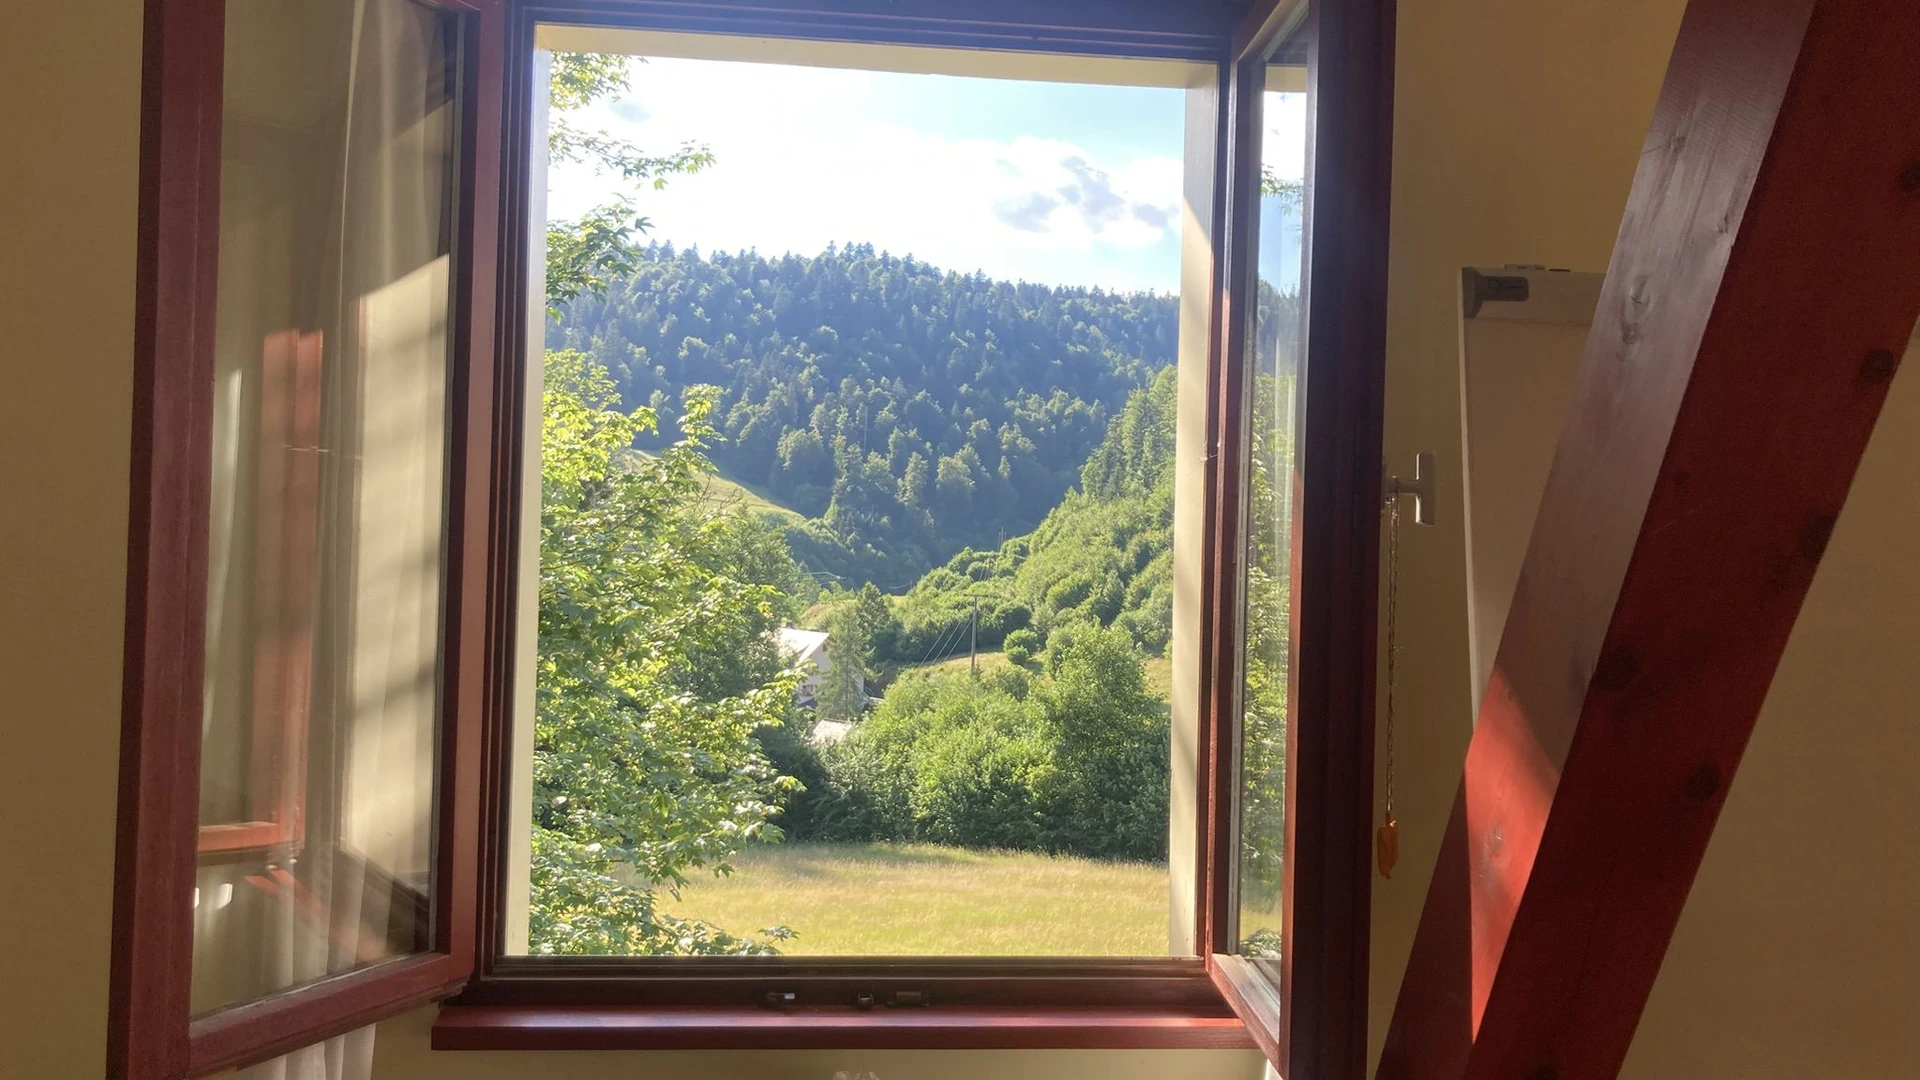
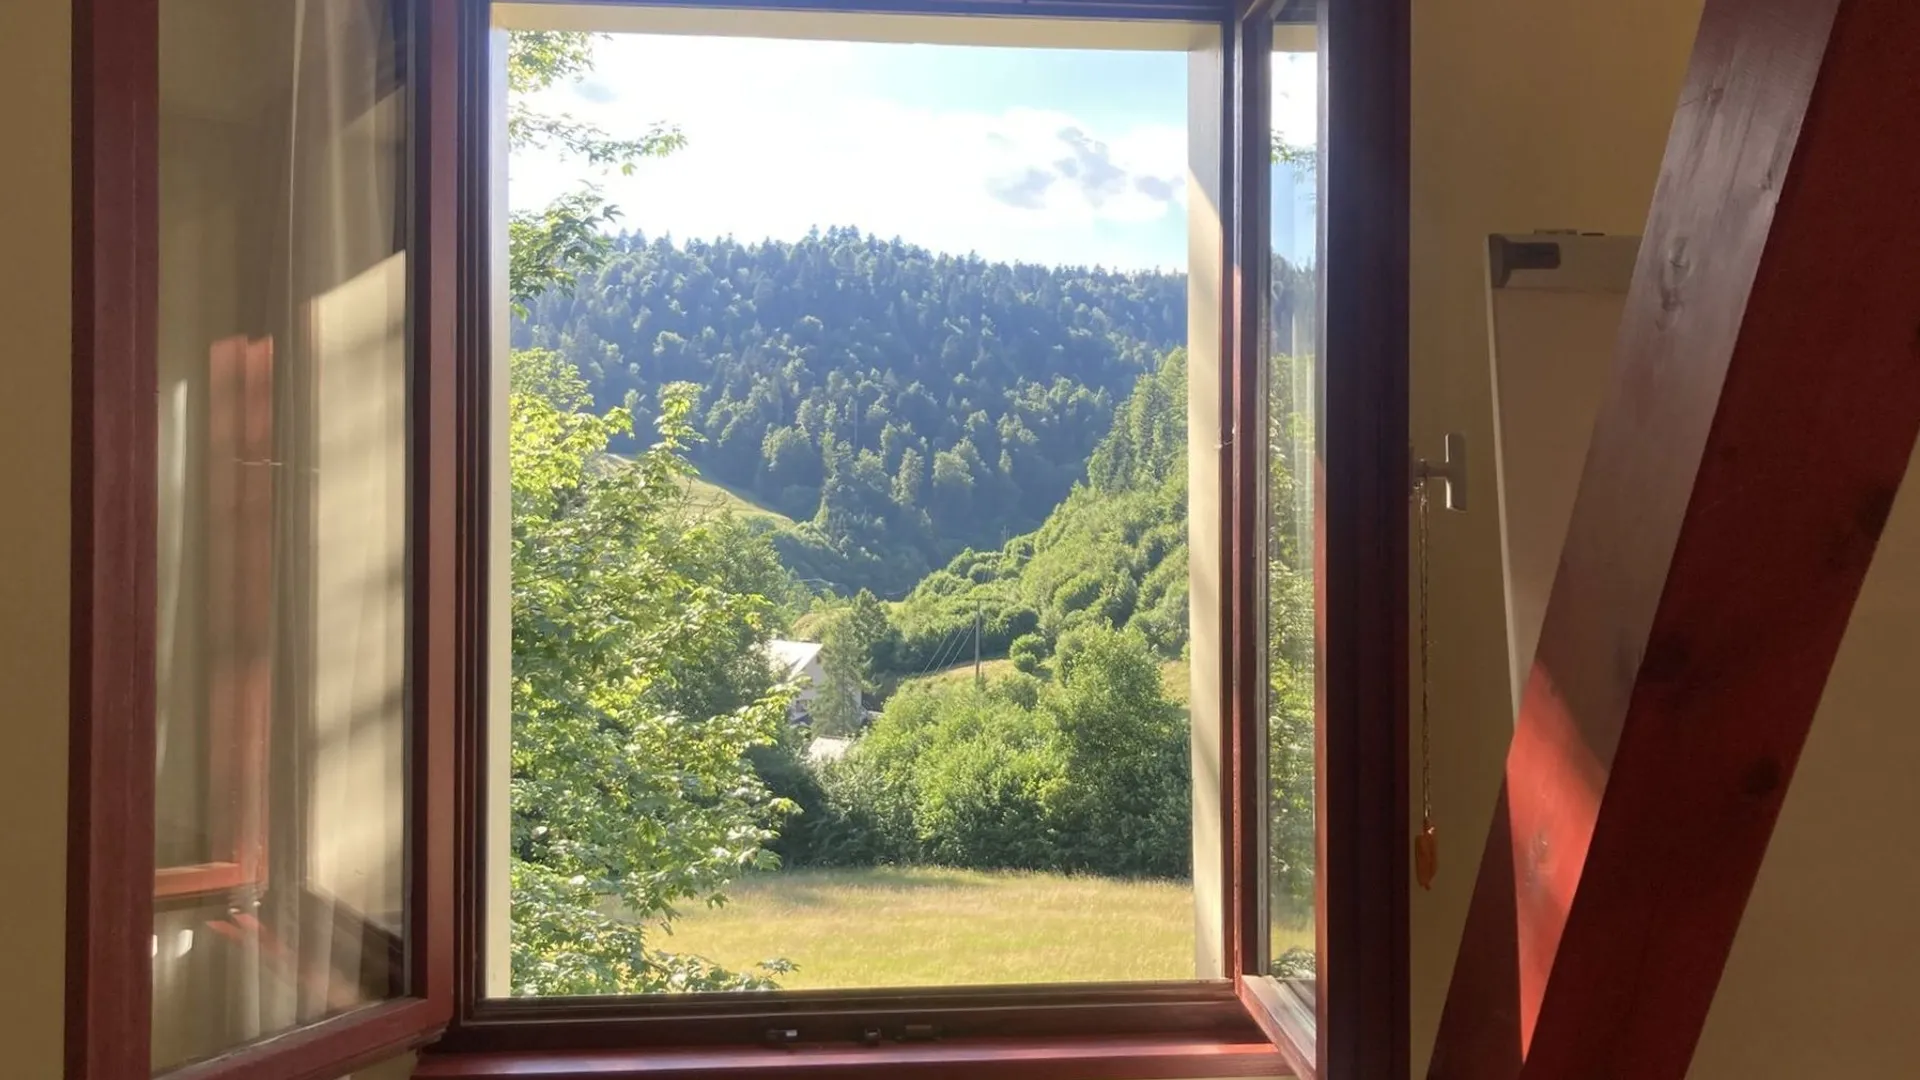
Mobile kicker centering, straightened window hero, Three-roots & techniques image framing
- Mobile: gold section kickers with a single left hairline now center on mobile
  (justify-center) with a shortened 1.5rem bar, restoring left alignment at md+;
  applied site-wide (home, training overview, venues, schedule, curriculum)
- Training overview: reworded overlapping admission requirements (L1/L2/L3) so they
  no longer echo the general eligibility list's therapy/supervision line
- What is Transpersonal Psychology: straightened the tilted window hero (~1.6deg CCW)
  and recropped to remove the resulting empty corners
- Home: all three "Three roots" cards now fill the full card width (images I & II were
  shrinking under items-center); numerals stay centered above
- Techniques: hero shifted to object-bottom so the reclining figure's full face shows;
  breathwork mandala framed lower to feature the colourful drawing; Gestalt framed
  lower to show bodies (crops the raised roll, keeps heads); Central Drama & Shadow
  Work now uses psychodrama-stage-a

diff --git a/src/index.html b/src/index.html
@@ -36,7 +36,7 @@ ogType: website
 
     <div class="relative z-10 container mx-auto px-6 pb-16 pt-40">
         <div class="max-w-3xl animate-fade-in-up">
-            <p class="p4-kicker text-[#C9A45C] mb-7 flex items-center gap-4">
+            <p class="p4-kicker text-[#C9A45C] mb-7 flex items-center justify-center md:justify-start gap-4">
                 <span class="p4-hairline"></span>
                 A four-year path &middot; 2027&ndash;2030
             </p>
@@ -88,7 +88,7 @@ ogType: website
     <div class="container mx-auto px-6">
         <div class="grid lg:grid-cols-12 gap-12 lg:gap-16 items-center max-w-6xl mx-auto">
             <div class="lg:col-span-6">
-                <p class="p4-kicker text-[#9A7734] mb-6 flex items-center gap-4">
+                <p class="p4-kicker text-[#9A7734] mb-6 flex items-center justify-center md:justify-start gap-4">
                     <span class="p4-hairline"></span> Welcome to our school
                 </p>
                 <h2 class="p4-display text-4xl md:text-6xl font-medium text-indigo-deep-900 leading-[1.08] mb-8">
@@ -159,18 +159,18 @@ ogType: website
             <div class="bg-[#FFFEF9] flex flex-col items-center text-center hover:bg-white transition-colors duration-300">
                 <p class="p4-display text-5xl text-[#C9A45C] pt-8">{{ romans[loop.index0] }}</p>
                 {% if loop.index0 == 0 %}
-                <picture>
+                <picture class="w-full block mt-6">
                     <source srcset="{{ '/assets/images/Community/community-embrace-support.webp' | url }}" type="image/webp">
                     <img src="{{ '/assets/images/Community/community-embrace-support.jpg' | url }}"
                          alt="A group embrace during a seminar"
-                         class="w-full h-52 object-cover object-[50%_25%] mt-6" loading="lazy">
+                         class="w-full h-52 object-cover object-[50%_25%]" loading="lazy">
                 </picture>
                 {% elif loop.index0 == 1 %}
-                <picture>
+                <picture class="w-full block mt-6">
                     <source srcset="{{ '/assets/images/Techniques/technique-mandala-drawing.webp' | url }}" type="image/webp">
                     <img src="{{ '/assets/images/Techniques/technique-mandala-drawing.jpg' | url }}"
                          alt="Hands gathered around a mandala during integration work"
-                         class="w-full h-52 object-cover mt-6" loading="lazy">
+                         class="w-full h-52 object-cover" loading="lazy">
                 </picture>
                 {% else %}
                 <div class="w-full h-52 bg-[#0F2540] flex items-center justify-center p-8 mt-6">
@@ -207,7 +207,7 @@ ogType: website
                 <div class="absolute -inset-4 border border-[#C9A45C]/60 pointer-events-none" aria-hidden="true"></div>
             </div>
             <div class="order-1 lg:order-2">
-                <p class="p4-kicker text-[#9A7734] mb-6 flex items-center gap-4">
+                <p class="p4-kicker text-[#9A7734] mb-6 flex items-center justify-center md:justify-start gap-4">
                     <span class="p4-hairline"></span> An honest question
                 </p>
                 <h2 class="p4-display text-4xl md:text-5xl font-medium text-indigo-deep-900 leading-tight mb-6">

diff --git a/src/training-overview.html b/src/training-overview.html
@@ -68,7 +68,7 @@ description: "Explore our transpersonal psychotherapy training programme philoso
     <div class="container mx-auto px-6 relative z-10">
         <div class="max-w-4xl mx-auto">
             <div class="mb-6">
-                <p class="p4-kicker text-[#9A7734] mb-3 flex items-center gap-4">
+                <p class="p4-kicker text-[#9A7734] mb-3 flex items-center justify-center md:justify-start gap-4">
                     <span class="p4-hairline"></span>
                     Philosophy
                 </p>
@@ -89,7 +89,7 @@ description: "Explore our transpersonal psychotherapy training programme philoso
     <div class="container mx-auto px-6 relative z-10">
         <div class="max-w-4xl mx-auto">
             <div class="mb-6">
-                <p class="p4-kicker text-[#9A7734] mb-3 flex items-center gap-4">
+                <p class="p4-kicker text-[#9A7734] mb-3 flex items-center justify-center md:justify-start gap-4">
                     <span class="p4-hairline"></span>
                     Commitment
                 </p>
@@ -124,7 +124,7 @@ description: "Explore our transpersonal psychotherapy training programme philoso
     <div class="container mx-auto px-6 relative z-10">
         <div class="max-w-4xl mx-auto">
             <div class="mb-6">
-                <p class="p4-kicker text-[#9A7734] mb-3 flex items-center gap-4">
+                <p class="p4-kicker text-[#9A7734] mb-3 flex items-center justify-center md:justify-start gap-4">
                     <span class="p4-hairline"></span>
                     The programme
                 </p>
@@ -147,7 +147,7 @@ description: "Explore our transpersonal psychotherapy training programme philoso
     <div class="container mx-auto px-6 relative z-10">
         <div class="max-w-4xl mx-auto">
             <div class="mb-8">
-                <p class="p4-kicker text-[#9A7734] mb-3 flex items-center gap-4">
+                <p class="p4-kicker text-[#9A7734] mb-3 flex items-center justify-center md:justify-start gap-4">
                     <span class="p4-hairline"></span>
                     Eligibility
                 </p>
@@ -180,7 +180,7 @@ description: "Explore our transpersonal psychotherapy training programme philoso
     <div class="container mx-auto px-6 relative z-10">
         <div class="max-w-4xl mx-auto">
             <div class="mb-8">
-                <p class="p4-kicker text-[#9A7734] mb-3 flex items-center gap-4">
+                <p class="p4-kicker text-[#9A7734] mb-3 flex items-center justify-center md:justify-start gap-4">
                     <span class="p4-hairline"></span>
                     Admissions
                 </p>

diff --git a/src/venues.html b/src/venues.html
@@ -60,7 +60,7 @@ description: "The two in-person venues for our transpersonal training intensives
     <div class="container mx-auto px-6">
         <div class="max-w-6xl mx-auto grid lg:grid-cols-2 gap-10 lg:gap-14 items-center">
             <div>
-                <p class="p4-kicker text-[#9A7734] mb-4 flex items-center gap-4">
+                <p class="p4-kicker text-[#9A7734] mb-4 flex items-center justify-center md:justify-start gap-4">
                     <span class="p4-hairline"></span>
                     Todtmoos &middot; Black Forest, Germany
                 </p>
@@ -103,7 +103,7 @@ description: "The two in-person venues for our transpersonal training intensives
     <div class="container mx-auto px-6">
         <div class="max-w-6xl mx-auto grid lg:grid-cols-2 gap-10 lg:gap-14 items-center">
             <div class="lg:order-2">
-                <p class="p4-kicker text-[#9A7734] mb-4 flex items-center gap-4">
+                <p class="p4-kicker text-[#9A7734] mb-4 flex items-center justify-center md:justify-start gap-4">
                     <span class="p4-hairline"></span>
                     Tenuta di Monteverdi &middot; Tuscany, Italy
                 </p>

diff --git a/src/techniques.html b/src/techniques.html
@@ -15,7 +15,7 @@ description: "Discover the therapeutic techniques used in our training: holotrop
             <img
                 src="{{ '/assets/images/Techniques/technique-group-bodywork-c.jpg' | url }}"
                 alt="Group bodywork during a transpersonal training seminar"
-                class="w-full h-full object-cover"
+                class="w-full h-full object-cover object-bottom"
             />
         </picture>
         <div class="absolute inset-0 bg-gradient-to-b from-[#0F2540]/85 via-[#0F2540]/45 to-neutral-warm-50"></div>

diff --git a/src/curriculum.html b/src/curriculum.html
@@ -74,7 +74,7 @@ description: "Detailed curriculum for transpersonal psychotherapy training. Topi
     <div class="container mx-auto px-6 relative z-10">
         <div class="max-w-4xl mx-auto">
             <div class="mb-8">
-                <p class="p4-kicker text-[#9A7734] mb-3 flex items-center gap-4">
+                <p class="p4-kicker text-[#9A7734] mb-3 flex items-center justify-center md:justify-start gap-4">
                     <span class="p4-hairline"></span>
                     The path
                 </p>

diff --git a/src/schedule.html b/src/schedule.html
@@ -253,7 +253,7 @@ description: "View upcoming residential training weekends and intensive seminars
                 </picture>
             </div>
             <div>
-                <p class="p4-kicker text-[#9A7734] mb-4 flex items-center gap-4">
+                <p class="p4-kicker text-[#9A7734] mb-4 flex items-center justify-center md:justify-start gap-4">
                     <span class="p4-hairline"></span>
                     Where we gather
                 </p>

diff --git a/src/styles/main.css b/src/styles/main.css
@@ -195,6 +195,9 @@ body[class*="theme-"] #mobile-menu a:hover {
     background: #C9A45C;
     vertical-align: middle;
 }
+@media (max-width: 767px) {
+    .p4-hairline { width: 1.5rem; }
+}
 .p4-dropcap p:first-child::first-letter {
     font-family: 'Cormorant Garamond', Georgia, serif;
     font-size: 3.6em;

diff --git a/src/content/techniques/cards/01-breathwork.md b/src/content/techniques/cards/01-breathwork.md
@@ -4,7 +4,7 @@ icon_color: text-science-blue-600
 icon_bg: bg-science-blue-100
 title: Holotropic Breathwork
 image: /assets/images/Techniques/technique-mandala-breathwork
-image_position: object-center
+image_position: object-[50%_70%]
 ---
 
 Grof's Holotropic Breathwork combines accelerated breathing, evocative music and focused bodywork to access non-ordinary states of consciousness for deep healing and self-exploration — with insights often integrated afterwards through mandala drawing.

diff --git a/src/content/training-overview/admissions/01-level-1.md b/src/content/training-overview/admissions/01-level-1.md
@@ -8,4 +8,4 @@ who_can_apply: "Anyone interested in transpersonal psychology, consciousness exp
 2. Brief CV or professional background
 3. Psychological Biography
 4. Phone/video interview with program coordinator
-5. Demonstrated interest in consciousness and personal growth
+5. Confirmed availability to attend the required in-person intensives

diff --git a/src/content/training-overview/admissions/03-level-3.md b/src/content/training-overview/admissions/03-level-3.md
@@ -9,4 +9,4 @@ label: Psychotherapy Track
 4. Clinical supervisor recommendation
 5. Detailed professional statement and clinical goals
 6. Comprehensive interview with faculty panel
-7. Commitment to ongoing personal therapy and supervision
+7. Agreement to the training's ethical and confidentiality code for supervised clinical practice

diff --git a/src/content/techniques/cards/02-gestalt.md b/src/content/techniques/cards/02-gestalt.md
@@ -4,7 +4,7 @@ icon_color: text-[#9A7734]
 icon_bg: bg-[#C9A45C]/20
 title: Gestalt Therapy
 image: /assets/images/Techniques/technique-sensory-group
-image_position: object-top
+image_position: object-[50%_40%]
 ---
 
 Present-centered awareness and contact work for integrating fragmented aspects of the self.

diff --git a/src/content/training-overview/admissions/02-level-2.md b/src/content/training-overview/admissions/02-level-2.md
@@ -7,4 +7,4 @@ label: Counseling Track
 2. Personal statement describing professional goals
 3. Professional references (minimum 2)
 4. Interview with program coordinator
-5. Commitment to personal ongoing development and supervision
+5. Agreement to begin supervised practice hours under a Level 2 mentor
